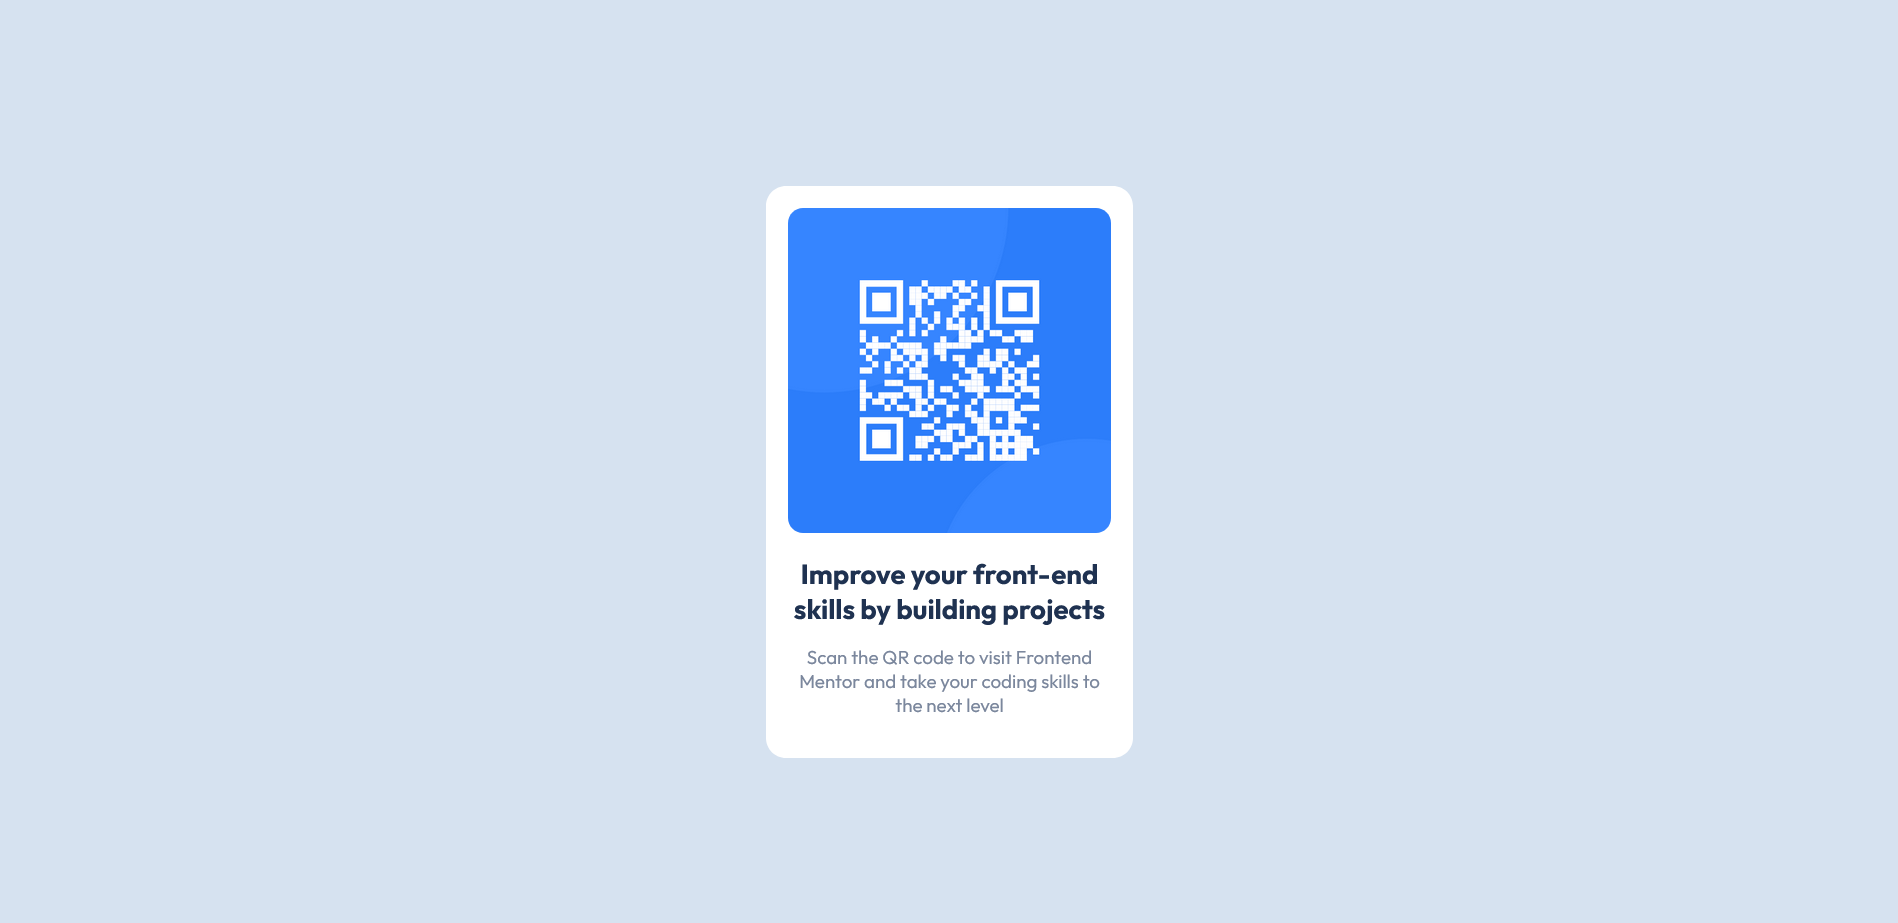
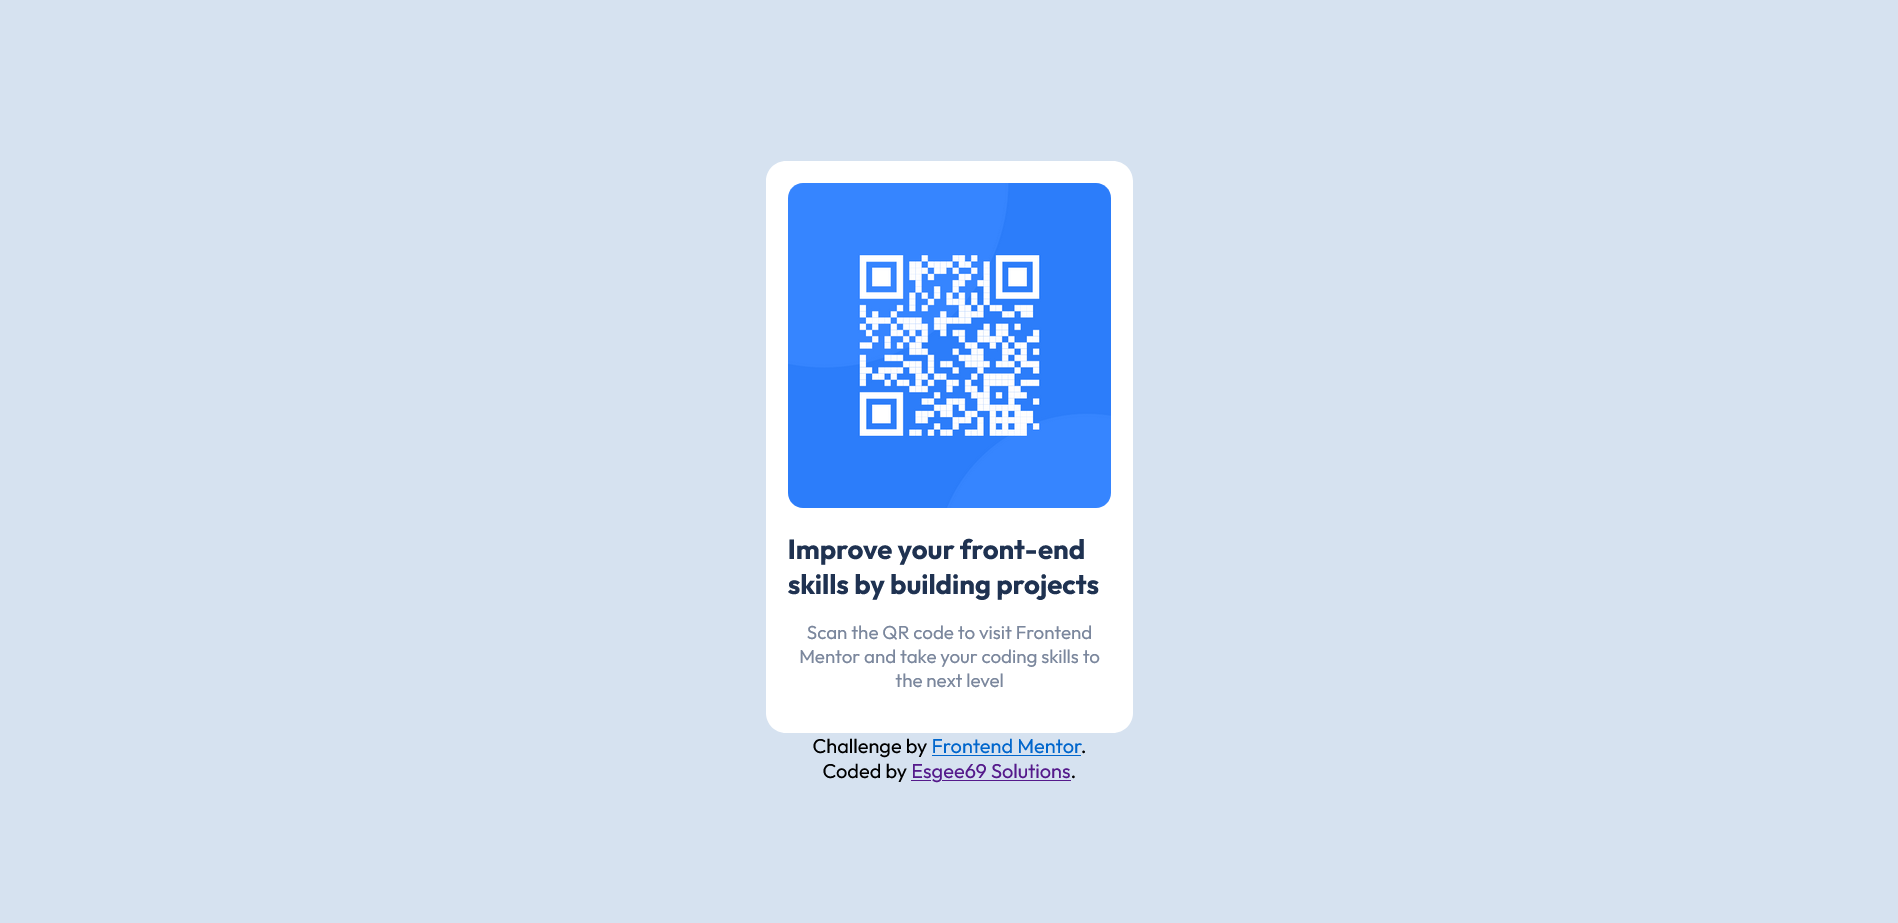
final commit

Changed region(s): [[0.4041, 0.546, 0.6217, 0.8494], [0.4352, 0.273, 0.5595, 0.5157], [0.4041, 0.1517, 0.6217, 0.2427]]

diff --git a/styles/style.css b/styles/style.css
@@ -1,13 +1,21 @@
 @import url('https://fonts.googleapis.com/css2?family=Outfit:wght@400;700&display=swap');
 
-body{
+html{
     display: flex;
     align-items: center;
     justify-content: center;
     min-height: 100vh;
-    text-align: center;
+}
+
+body{
     background-color: hsl(212, 45%, 89%);
     font-family: 'Outfit', sans-serif;
+    width: 100%;
+    min-height: 100vh;
+    display: flex;
+    flex-direction: column;
+    align-items: center;
+    justify-content: center;
 }
 
 div{
@@ -28,6 +36,7 @@ p{
     font-size: 15px;
     font-weight: 400;
     color: hsl(220, 15%, 55%);   
+    text-align: center;
 }
 
 #qrImg{
@@ -36,11 +45,7 @@ p{
     height: 260px;
 }
 
-.attribution { 
-    font-size: 11px; 
-    text-align: center; 
-}
-
-.attribution a { 
-    color: hsl(228, 45%, 44%); 
+footer{
+    width: 250px;
+    text-align: center;
 }

diff --git a/index.html b/index.html
@@ -23,13 +23,13 @@
     <p>
       Scan the QR code to visit Frontend Mentor and take your coding skills to the next level
     </p>
-
   </div>
 
-  <!-- <div class="attribution">
-    Challenge by <a href="https://www.frontendmentor.io?ref=challenge" target="_blank">Frontend Mentor</a>. 
-    Coded by <a href="#">Esgee69 Solutions</a>.
-  </div> -->
+  <footer class="attribution">
+    Challenge by <a href="https://www.frontendmentor.io?ref=challenge" target="_blank">Frontend Mentor</a>.
+    Coded by <a href="https://github.com/Paresh2421">Esgee69 Solutions</a>.
+  </footer>
+
 </body>
 
 </html>
